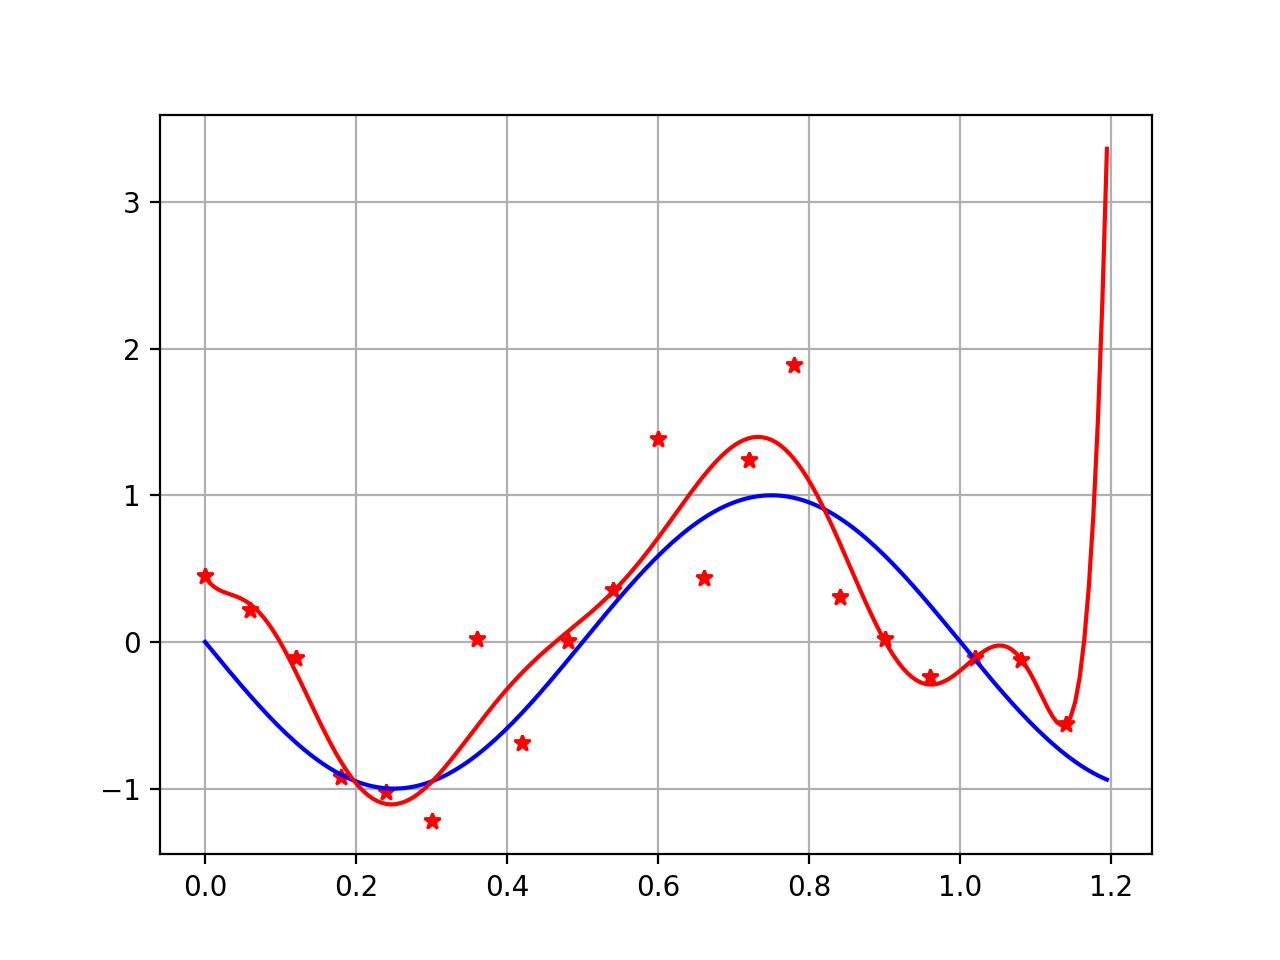
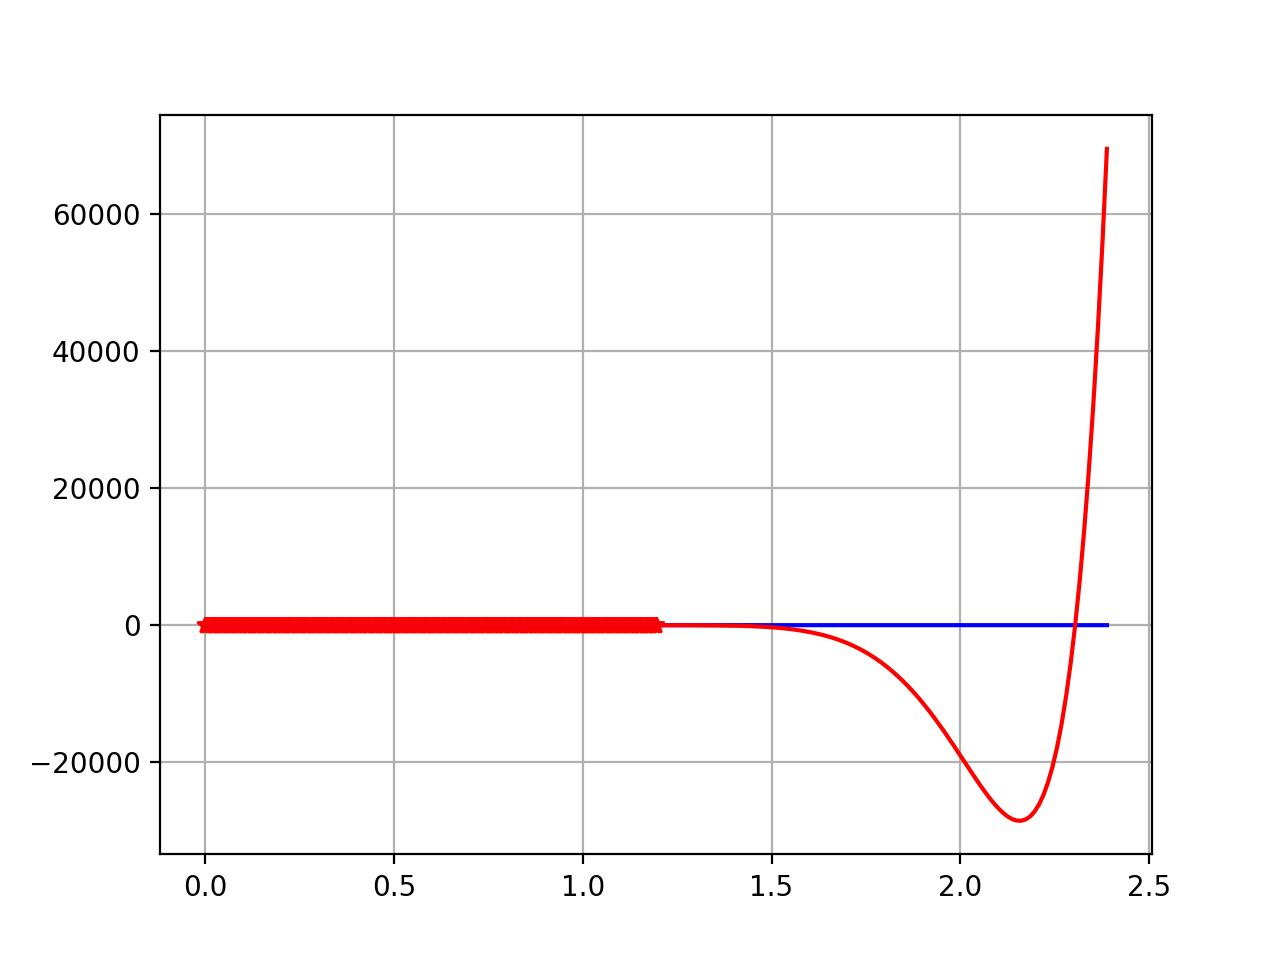
la bonne version à jour

diff --git a/TP_SETI_MLP/tp_MLP.py b/TP_SETI_MLP/tp_MLP.py
@@ -18,12 +18,21 @@ def get_MSE(x, y, reg):
     return np.sum(pow(reg.predict(x) - y, 2)) / x.shape[0]
 
 def tan_hyp(x):
-    A = np.array([[1, 1], [-2, 1]])
-    b = np.array([0.2, -0.3])
+    A = np.array([[5, 0], [0, 7]])
+    b = np.array([-0.5, -0.5])
 
-    z = A.dot(x) + b
+    z = A.dot(x + b) 
     h = np.transpose(z).dot(np.ones(z.shape))
     y = (np.tanh(h) + 1) / 2 
+    return y
+
+def sinc(x):
+    A = np.array([[5, 0], [0, 7]])
+    b = np.array([-0.5, -0.5])
+
+    z = A.dot(x + b) 
+    h =  np.sqrt(np.transpose(z).dot(z))
+    y = np.sin(h) / h 
     return y
 
 def plot_surf(figname, regr=None):
@@ -55,18 +64,22 @@ def plot_surf(figname, regr=None):
     # plt.show()
     plt.close()
 
-def plot_surf_and_scatter(figname, X, Y, regr=None):
+def plot_surf_and_scatter(figname, X, Y, regr=None, func=tan_hyp):
     step_v = 0.005
 
-    x1v = np.arange(0,1,step_v)
-    x2v = np.arange(0,1,step_v)
+    x1min = min(X[:,0])
+    x1max = max(X[:,0])
+    x2min = min(X[:,1])
+    x2max = max(X[:,1])
+    x1v = np.arange(x1min,x1max,step_v)
+    x2v = np.arange(x2min,x2max,step_v)
     Xv, Yv = np.meshgrid(x1v, x2v)
 
     R = np.zeros(Xv.shape)
     for i, x1 in enumerate(x1v):
         for j, x2 in enumerate(x2v):
             if not regr:
-                R[j, i] = tan_hyp(np.array([x1, x2]))
+                R[j, i] = func(np.array([x1, x2]))
             else:
                 R[j, i] = regr.predict(np.array([[x1, x2]]))[0]
 
@@ -98,26 +111,29 @@ def plot_confusion(x_t, y_t, reg, namefig="confusion"):
 
 def main():
 
+    FUNC = tan_hyp
+
     # Get learning set
     with open("sinc_dim2_input.csv", 'r') as f:
         f.readline() # Skip the header
         X_app = np.loadtxt(f, delimiter=';')
 
-    y_app = np.zeros(X_app[:,0].shape)
+    y_app = np.zeros(X_app.shape[0])
     for i, x in enumerate(X_app):
-        y_app[i] = tan_hyp(x)
+        y_app[i] = FUNC(x)
 
     # Generate test set
-    mesh_line = np.linspace(0, 1, 40)
-    test_set_size = 40*40
+    POINTS_PER_DIM = 40
+    mesh_line = np.linspace(0, 1, POINTS_PER_DIM)
+    test_set_size = POINTS_PER_DIM ** 2
     X_test = np.zeros((test_set_size, 2))
-    y_test = np.zeros((test_set_size, 1))
+    y_test = np.zeros(test_set_size)
     i = 0
     j = 0
     for idx in range(test_set_size):
         x = np.array([mesh_line[i], mesh_line[j]])
         X_test[idx] = x
-        y_test[idx] = tan_hyp(x)
+        y_test[idx] = FUNC(x)
 
         j += 1
         if j == 40:
@@ -128,20 +144,31 @@ def main():
     L_error_test = []
     
     # Training
-    for hl_size in range(2, 101):
-        regr = MLPRegressor(hidden_layer_sizes=hl_size, max_iter=2000, activation="tanh").fit(X_app, y_app)
+    for hl_size in range(2, 200 + 1):
+        # L_error_app.append(get_MSE(X_app, y_app, regr))
+        # L_error_test.append(get_MSE(X_test, y_test, regr))
+        L_error_app.append(0)
+        L_error_test.append(0)
 
-        L_error_app.append(get_MSE(X_app, y_app, regr))
-        L_error_test.append(get_MSE(X_test, y_test, regr))
+        NUMBER_OF_TESTS = 25
+        for i in range(NUMBER_OF_TESTS):    
+            regr = MLPRegressor(hidden_layer_sizes=(hl_size,), max_iter=2000, activation="tanh", learning_rate="adaptive")
+            regr = regr.fit(X_app, y_app)
+            L_error_app[-1] += get_MSE(X_app, y_app, regr)
+            L_error_test[-1] += get_MSE(X_test, y_test, regr)
+        L_error_app[-1] /= NUMBER_OF_TESTS
+        L_error_test[-1] /= NUMBER_OF_TESTS
+
+
 
     best = np.argmin(L_error_test) + 2
     print("Meilleur modele -> Neurones =", best)
     
-    regr = MLPRegressor(hidden_layer_sizes=best, max_iter=2000, activation="tanh").fit(X_app, y_app)
+    regr = MLPRegressor(hidden_layer_sizes=(best,), max_iter=2000, activation="tanh", learning_rate="adaptive").fit(X_app, y_app)
 
     # Plots
-    plot_surf_and_scatter("MLP learning set", X_app, y_app, regr)
-    plot_surf_and_scatter("MLP Test set", X_test, y_test, regr)
+    plot_surf_and_scatter("MLP learning set", X_app, y_app, regr, FUNC)
+    plot_surf_and_scatter("MLP Test set", X_test, y_test, regr, FUNC)
     plot_confusion(X_test, y_test, regr, "CONFUSION_MLP")
     
     plot_error_profile(L_error_app, L_error_test, "Profil_Err_App_Test_MLP")

diff --git a/TP_SVM/svm.py b/TP_SVM/svm.py
@@ -45,7 +45,7 @@ def genere_black_hole(n=300, mu=[0,0], std=1, delta=0.2, radius=1.0):
     return X, Y
 
 def plot_data_hyperplan(X, Y, classifier, figname, support_indices):
-    plt.figure(figsize=(12,12*9/16))
+    plt.figure(figsize=(12,12*3/4))
 
     plot_dict = {1 : "b", -1 : "r"}
     c = [plot_dict[y] for y in Y]
@@ -59,6 +59,12 @@ def plot_data_hyperplan(X, Y, classifier, figname, support_indices):
     minx2 = min(X[:,1])
     maxx2 = max(X[:,1])
 
+    minx1 = min(minx1, minx2)
+    minx2 = minx1
+    maxx1 = max(maxx1, maxx2)
+    maxx2 = maxx1
+    
+
     xx = np.linspace(minx1, maxx1, 100)
     yy = np.linspace(minx2, maxx2, 100).T
     xx, yy = np.meshgrid(xx, yy)
@@ -69,12 +75,12 @@ def plot_data_hyperplan(X, Y, classifier, figname, support_indices):
 
     # Plot
     plt.contourf(xx, yy, P[:,1].reshape((100,100)), 100, cmap="magma")
-    plt.colorbar()
+    # plt.colorbar()
     plt.contour(xx, yy, Z.reshape((100, 100)), [-1, 0, 1], colors=["cyan", "g", "cyan"])
     plt.scatter(X[:,0], X[:,1], c=c, s=s, edgecolors="black")
     plt.xlim((minx1, maxx1))
     plt.ylim((minx2, maxx2))
-    plt.grid()
+    # plt.grid()
     plt.savefig(figname)
     plt.close()
     return
@@ -135,6 +141,22 @@ def main(X, Y):
     degree = classifier.best_params_["degree"]
     classifier = SVC(kernel = kernel, degree=degree, C=C, coef0=1, probability=True)
     classifier = classifier.fit(X, Y)
+    plot_data_hyperplan(X, Y, classifier, "Graph_SVM_poly", classifier.support_)
+    
+    classifier = SVC(kernel = kernel, degree=degree, C=C*10, coef0=1, probability=True)
+    classifier = classifier.fit(X, Y)
+    plot_data_hyperplan(X, Y, classifier, "Graph_SVM_poly_C10", classifier.support_)
+    classifier = SVC(kernel = kernel, degree=degree, C=C*0.1, coef0=1, probability=True)
+    classifier = classifier.fit(X, Y)
+    plot_data_hyperplan(X, Y, classifier, "Graph_SVM_poly_C01", classifier.support_)
+
+    classifier = SVC(kernel = kernel, degree=degree+1, C=C, coef0=1, probability=True)
+    classifier = classifier.fit(X, Y)
+    plot_data_hyperplan(X, Y, classifier, "Graph_SVM_poly_deg1", classifier.support_)
+    classifier = SVC(kernel = kernel, degree=degree-1, C=C, coef0=1, probability=True)
+    classifier = classifier.fit(X, Y)
+    plot_data_hyperplan(X, Y, classifier, "Graph_SVM_poly_deg-1", classifier.support_)
+
     Y_predict = classifier.predict(X_test)
     
     # WARNING: THRESHOLD = 0.5 !!!!!!!
@@ -173,9 +195,8 @@ def main(X, Y):
     from sklearn.metrics import roc_curve
     fpr, tpr, threshold = roc_curve(Y_test, classifier.predict_proba(X_test)[:,1])
     plt.plot(fpr, tpr)
-    plt.show()
-    plot_roc(X_test, Y_test, classifier)
-    plot_data_hyperplan(X, Y, classifier, "Graph_SVM_poly", classifier.support_)
+    # plt.show()
+    # plot_roc(X_test, Y_test, classifier)
     
     # Black hole
     X, Y = genere_black_hole(n=1000)

diff --git a/TP_SETI_MLP/tp_regression_poly.py b/TP_SETI_MLP/tp_regression_poly.py
@@ -43,7 +43,7 @@ def main(degre_max=12, nb_ex=20, sigma=0.2):
     x_max = 1.2
     
     x_app, y_app = genere_exemple_dim1(x_min, x_max, nb_ex, sigma)
-    x_test, y_test = genere_exemple_dim1(x_min, x_max, 200, 0)
+    x_test, y_test = genere_exemple_dim1(x_min, x_max * 2, 200, 0)
 
     L_error_app = []
     L_error_test = []
@@ -65,11 +65,12 @@ def main(degre_max=12, nb_ex=20, sigma=0.2):
 
         # Plot du modèle de degré i
         plot_model(Xa, y_app, Xt, y_test, reg, "Model_%02d" % i)
+        plot_confusion(Xt, y_test, reg, "Confusion_%02d" % i)
     
     # Déterminer le degré optimal
     best = np.argmin(L_error_test) + 1
     print("Meilleur modele -> degre =", best)
-    plot_error_profile(L_error_app, L_error_test, "Profil_Err_App_Test")
+    plot_error_profile(L_error_app, L_error_test, f"Profil_Err_App_Test_{nb_ex}")
 
     # Création du modèle final optimal
     poly = PolynomialFeatures(best)
@@ -79,7 +80,9 @@ def main(degre_max=12, nb_ex=20, sigma=0.2):
     # Création du modèle linéaire
     reg = LinearRegression().fit(Xa, y_app)
 
-    plot_confusion(Xt, y_test, reg, "Confusion")
+    plot_confusion(Xt, y_test, reg, "Confusion_best")
 
 if __name__ == "__main__":
-    main(sigma=0.5)
+    nb_exs = [10, 50, 200]
+    for nb_ex in nb_exs:
+        main(nb_ex=nb_ex)

diff --git a/TP_SVM/plot_digits_classification.py b/TP_SVM/plot_digits_classification.py
@@ -76,7 +76,7 @@ X_train, X_test, y_train, y_test = train_test_split(
 clf = model_selection.GridSearchCV(svm.SVC(gamma=0.001), {"kernel":["poly", "rbf", "sigmoid"], "C":[1, 5, 10, 100]})
 
 clf.fit(data, digits.target)
-print("Best estimator: ", clf.best_estimator_)
+print("Best parameters: ", clf.best_params_)
 df = pd.DataFrame(data=clf.cv_results_)
 plt.figure()
 for i in range(len(df)):
@@ -92,8 +92,8 @@ plt.legend(["Poly", "RBF", "Sigmoid"])      # ATTENTION, WARNING: Marche dans le
 plt.title("Results of GridSearchCV")
 plt.xlabel("C")
 plt.ylabel("Test score")
+plt.savefig("gscv_letters")
 plt.show()
-print(df["mean_fit_time"])
 kernel = clf.best_params_["kernel"]
 C = clf.best_params_["C"]
 
